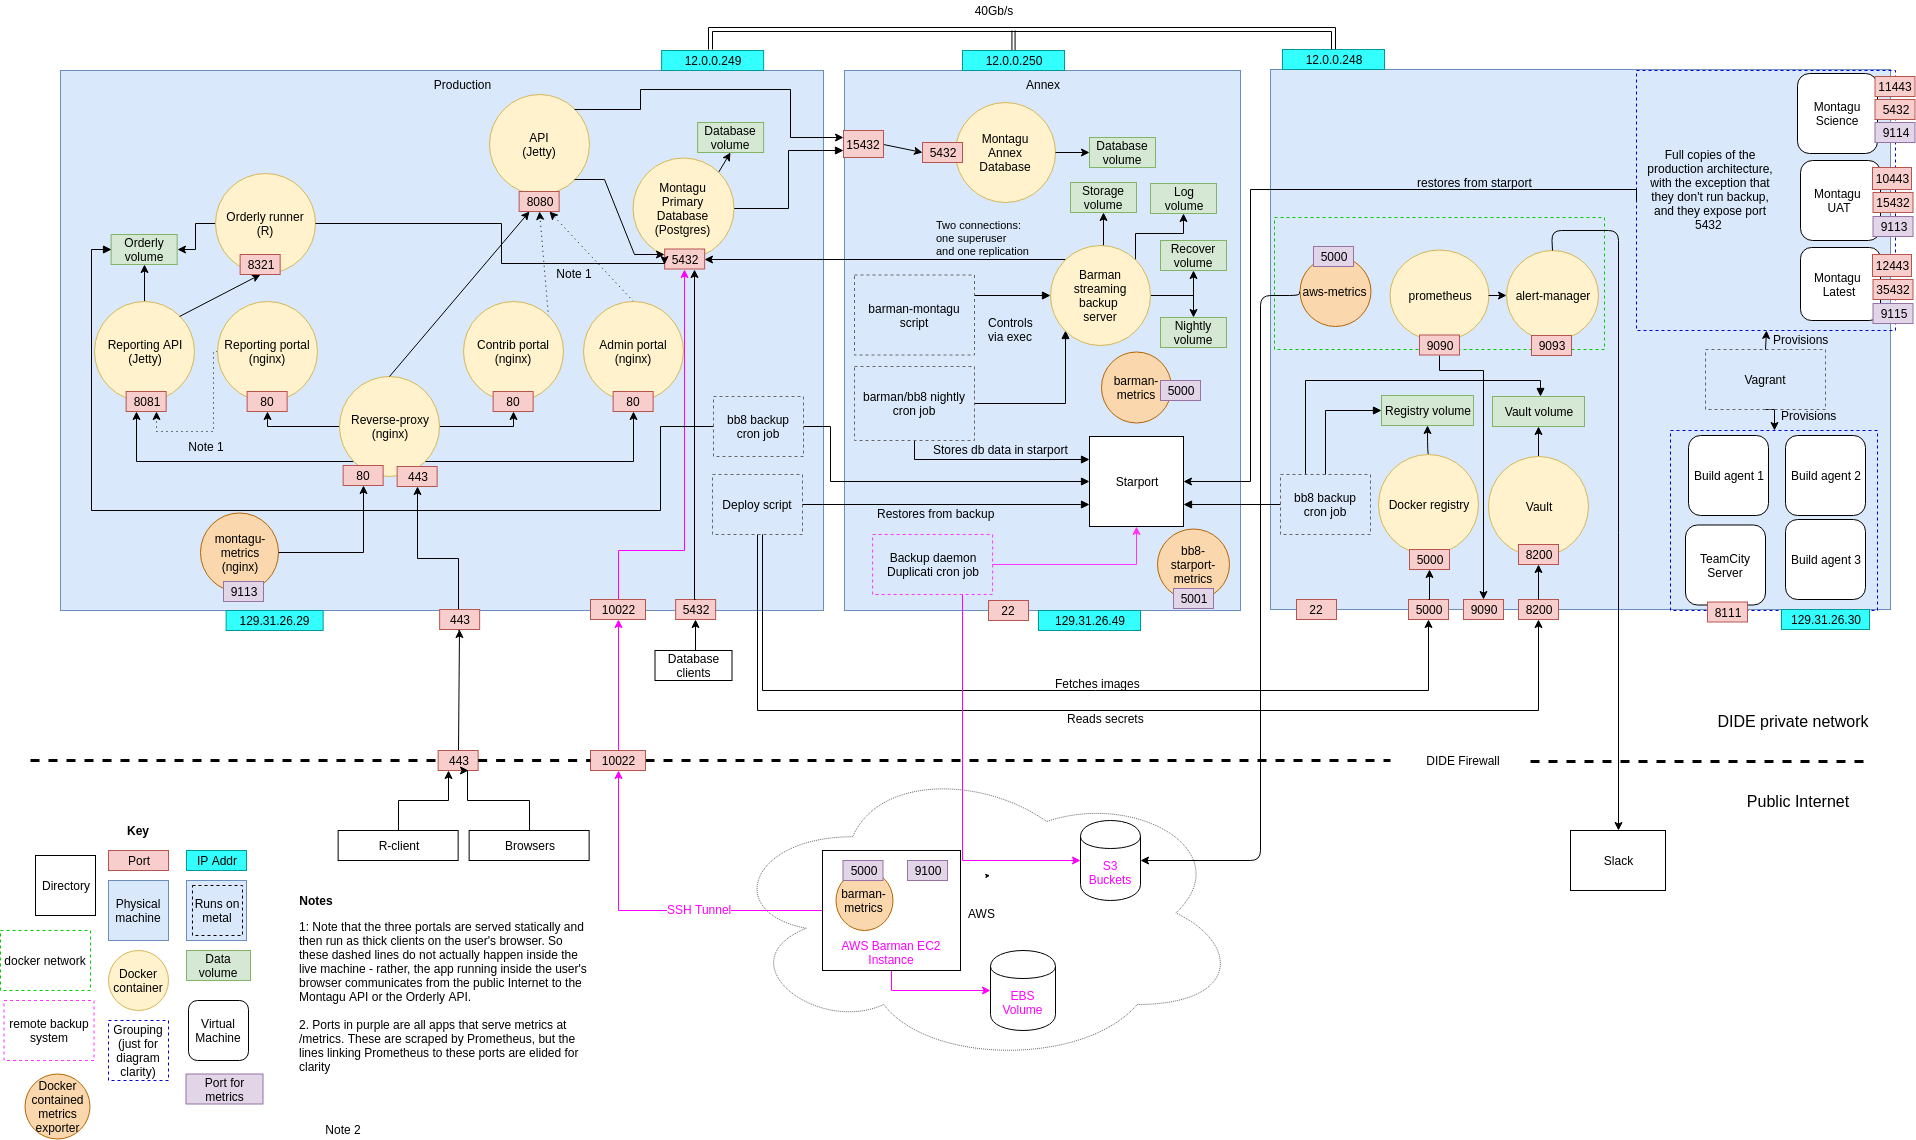
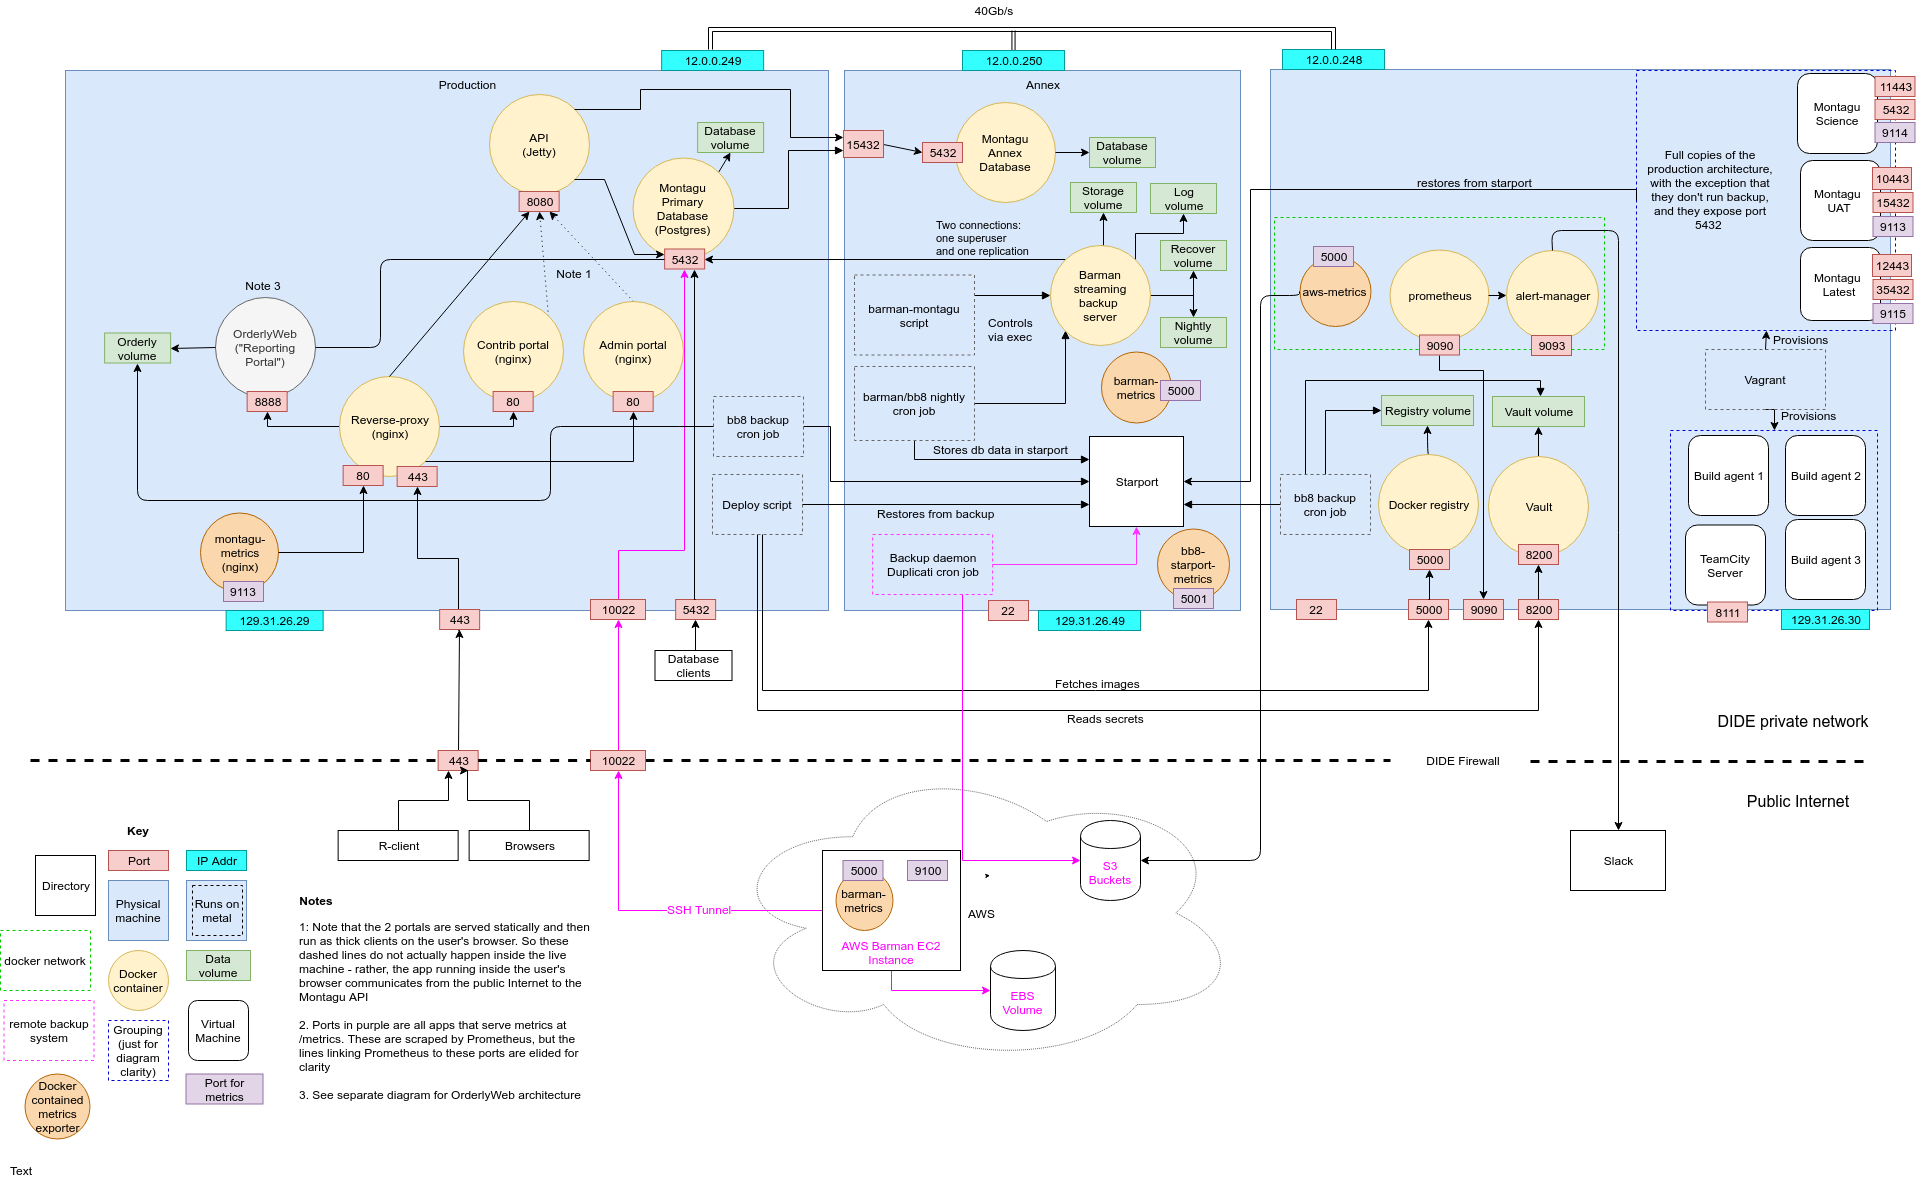
update vimc architecture and add separate diagrams for orderlyweb

diff --git a/docs/Production.md b/docs/Production.md
@@ -14,6 +14,7 @@ So to access:
 
 ## Services
 * [Montagu](https://github.com/vimc/montagu)
+* [OrderlyWeb](https://github.com/vimc/orderly-web-deploy) (proxied via Montagu)
 
 ## Upgrading and rebooting
 ### Graceful shutdown
